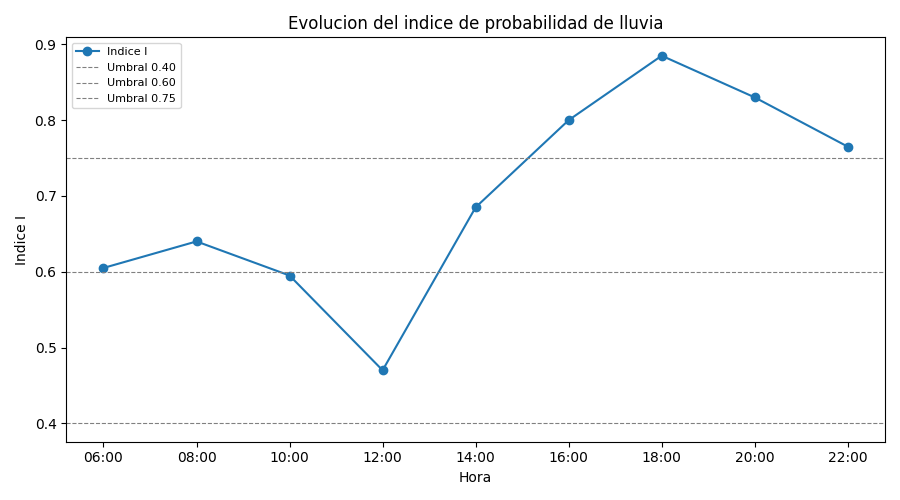
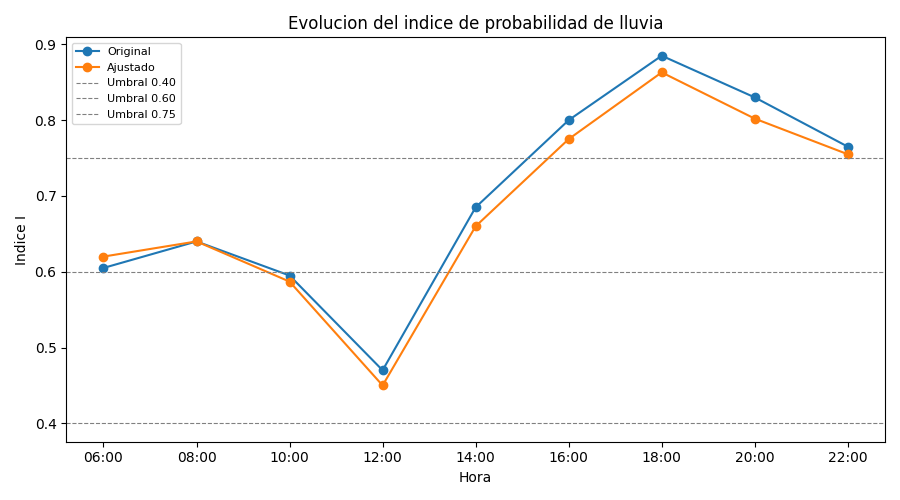
fix(unidad1): modelo ajustado cambia los pesos (sumando 1), no la tabla de Tf

diff --git a/Unidad1/practica01/model.py b/Unidad1/practica01/model.py
@@ -2,11 +2,12 @@
 Modelo (M de MVC): logica matematica pura del indice de probabilidad de lluvia.
 
 Formula entregada en la guia:
-    I = 0.5*H + 0.3*N + 0.2*Tf
+    I = W_H*H + W_N*N + W_TF*Tf
 
 donde H = humedad normalizada, N = nubosidad normalizada y Tf = factor de
-temperatura (obtenido de la tabla de referencia de la guia). Este modulo no
-sabe nada de consola ni de graficas: solo calcula.
+temperatura (obtenido de la tabla de referencia de la guia), y W_H+W_N+W_TF
+siempre suma 1 (es un promedio ponderado). Este modulo no sabe nada de
+consola ni de graficas: solo calcula.
 """
 
 # Tabla de factor de temperatura entregada por la guia de la practica.
@@ -24,8 +25,13 @@ TEMPERATURE_TABLE = [
     (28, 0.10),
 ]
 
-# Pesos fijos de la formula I = W_H*H + W_N*N + W_TF*Tf (dados por la guia).
-W_H, W_N, W_TF = 0.5, 0.3, 0.2
+# Modelo ORIGINAL: pesos (W_H, W_N, W_TF) tal cual los da la guia. Suman 1.
+WEIGHTS_ORIGINAL = (0.5, 0.3, 0.2)
+
+# Modelo AJUSTADO: misma formula y mismas variables (H, N, Tf), pero con
+# otra combinacion de pesos que tambien suma 1. Le da mas peso a la
+# temperatura para ver como cambia el indice frente al modelo original.
+WEIGHTS_ADJUSTED = (0.4, 0.3, 0.3)
 
 
 def normalize(value):
@@ -38,7 +44,8 @@ def temperature_factor(temp):
     Busca Tf en TEMPERATURE_TABLE siguiendo la 'tabla de reglas' de la guia
     (<=10C -> 1.00, >=28C -> 0.10). Para una temperatura que no esta en la
     tabla (ej. 17C), se toma el siguiente escalon igual o mayor, que es como
-    esta redactada la tabla de reglas original.
+    esta redactada la tabla de reglas original. Es la misma tabla para
+    cualquier set de pesos: lo unico que cambia entre modelos es W_H/W_N/W_TF.
     """
     if temp <= TEMPERATURE_TABLE[0][0]:
         return TEMPERATURE_TABLE[0][1]
@@ -50,15 +57,17 @@ def temperature_factor(temp):
     return TEMPERATURE_TABLE[-1][1]
 
 
-def compute_index(humidity, cloudiness, temp):
+def compute_index(humidity, cloudiness, temp, weights):
     """
-    Aplica la formula del indice para una hora puntual.
+    Aplica la formula del indice para una hora puntual con el set de pesos
+    que se le pase (WEIGHTS_ORIGINAL o WEIGHTS_ADJUSTED).
     Devuelve los 4 valores (H, N, Tf, Indice) para poder mostrarlos despues.
     """
+    w_h, w_n, w_tf = weights
     h = normalize(humidity)
     n = normalize(cloudiness)
     tf = temperature_factor(temp)
-    index = W_H * h + W_N * n + W_TF * tf
+    index = w_h * h + w_n * n + w_tf * tf
     return h, n, tf, index
 
 
@@ -77,7 +86,8 @@ class HourRecord:
     """
     Representa una fila de la tabla de la practica (una hora del dia).
     Guarda los datos crudos (humedad, nubosidad, temp) y, luego de llamar
-    a process(), tambien los resultados calculados (H, N, Tf, indice, estado).
+    a process(), tambien los resultados calculados (H, N, Tf, indice, estado)
+    para el set de pesos con el que se proceso.
     """
 
     def __init__(self, hour, humidity, cloudiness, temp):
@@ -87,10 +97,10 @@ class HourRecord:
         self.temp = temp
         self.h = self.n = self.tf = self.index = self.state = None
 
-    def process(self):
-        """Calcula H, N, Tf, indice y estado para esta hora y los guarda en el objeto."""
+    def process(self, weights):
+        """Calcula H, N, Tf, indice y estado para esta hora, usando el set de pesos dado."""
         self.h, self.n, self.tf, self.index = compute_index(
-            self.humidity, self.cloudiness, self.temp
+            self.humidity, self.cloudiness, self.temp, weights
         )
         self.state = classify_state(self.index)
         return self

diff --git a/Unidad1/practica01/main.py b/Unidad1/practica01/main.py
@@ -3,20 +3,29 @@ Punto de entrada: orquesta todo el patron MVC.
 
 Flujo:
 1. El Controller toma los datos crudos (BASE_DATA) y le pide al modelo que
-   calcule H, N, Tf, indice y estado para cada hora.
-2. La View muestra la tabla de resultados en consola y genera las graficas en PNG.
+   calcule H, N, Tf, indice y estado para cada hora, dos veces: con los
+   pesos originales de la guia y con los pesos ajustados (misma formula,
+   mismas variables, otros pesos que tambien suman 1).
+2. La View muestra ambas tablas en consola y genera las graficas en PNG.
 """
+from model import WEIGHTS_ORIGINAL, WEIGHTS_ADJUSTED
 from controller import RainSimulationController, BASE_DATA
 from view import ConsoleView, ChartView
 
 
 def main():
     controller = RainSimulationController(BASE_DATA)
-    records = controller.run()
 
-    ConsoleView.show_table("Indice de probabilidad de lluvia por hora", records)
+    original_records = controller.run(WEIGHTS_ORIGINAL)
+    adjusted_records = controller.run(WEIGHTS_ADJUSTED)
 
-    ChartView.plot_index(records, "indice_lluvia.png")
+    ConsoleView.show_table("Modelo original (pesos 0.5 / 0.3 / 0.2)", original_records)
+    ConsoleView.show_table("Modelo ajustado (pesos 0.4 / 0.3 / 0.3)", adjusted_records)
+
+    ChartView.plot_index(
+        {"Original": original_records, "Ajustado": adjusted_records},
+        "indice_lluvia.png",
+    )
     ChartView.plot_temperature_factor("factor_temperatura.png")
 
 

diff --git a/Unidad1/practica01/view.py b/Unidad1/practica01/view.py
@@ -28,13 +28,17 @@ class ChartView:
     """Genera las graficas que pide la guia (punto 6)."""
 
     @staticmethod
-    def plot_index(records, output_file):
-        """Grafica la evolucion del indice I a lo largo del dia, con los umbrales de la tabla de reglas."""
-        hours = [r.hour for r in records]
-        indices = [r.index for r in records]
-
+    def plot_index(records_by_label, output_file):
+        """
+        Grafica la evolucion del indice I a lo largo del dia, comparando el
+        modelo original contra el ajustado (mismos H/N/Tf, distintos pesos),
+        con los umbrales de la tabla de reglas de referencia.
+        """
         plt.figure(figsize=(9, 5))
-        plt.plot(hours, indices, marker="o", color="tab:blue", label="Indice I")
+        for label, records in records_by_label.items():
+            hours = [r.hour for r in records]
+            indices = [r.index for r in records]
+            plt.plot(hours, indices, marker="o", label=label)
         plt.axhline(0.40, linestyle="--", linewidth=0.8, color="gray", label="Umbral 0.40")
         plt.axhline(0.60, linestyle="--", linewidth=0.8, color="gray", label="Umbral 0.60")
         plt.axhline(0.75, linestyle="--", linewidth=0.8, color="gray", label="Umbral 0.75")

diff --git a/Unidad1/practica01/controller.py b/Unidad1/practica01/controller.py
@@ -25,6 +25,6 @@ class RainSimulationController:
     def __init__(self, data):
         self.data = data
 
-    def run(self):
-        """Crea un HourRecord por cada fila de BASE_DATA y lo procesa."""
-        return [HourRecord(*row).process() for row in self.data]
+    def run(self, weights):
+        """Crea un HourRecord por cada fila de BASE_DATA y lo procesa con el set de pesos dado."""
+        return [HourRecord(*row).process(weights) for row in self.data]

diff --git a/Unidad1/practica01/README.md b/Unidad1/practica01/README.md
@@ -5,12 +5,13 @@
 ## El modelo
 
 ```
-I = 0.5*H + 0.3*N + 0.2*Tf
+I = W_H*H + W_N*N + W_TF*Tf
 ```
 
 - `H` = humedad normalizada (0–1)
 - `N` = nubosidad normalizada (0–1)
 - `Tf` = factor de temperatura, tomado de la tabla de la guía
+- `W_H, W_N, W_TF` = pesos de cada variable. Siempre suman **1**, porque `I` es un promedio ponderado.
 
 | Índice I | Estado |
 |---|---|
@@ -21,14 +22,25 @@ I = 0.5*H + 0.3*N + 0.2*Tf
 
 Para temperaturas que no están exactamente en la tabla de `Tf` (ej. 15 °C, 17 °C), se usa el siguiente escalón igual o mayor, siguiendo la misma lógica de "tabla de reglas" con la que está redactada la tabla original (`≤10°C`, `≥28°C`).
 
+## Modelo original vs. modelo ajustado
+
+La guía pide ajustar el modelo y volver a llenar la tabla. El ajuste **no** cambia la fórmula ni las variables (siguen siendo H, N, Tf con la misma tabla de temperatura): cambia únicamente los **pesos**, manteniendo que sumen 1.
+
+| | W_H | W_N | W_TF | Suma |
+|---|---|---|---|---|
+| Original (de la guía) | 0.5 | 0.3 | 0.2 | 1.0 |
+| Ajustado | 0.4 | 0.3 | 0.3 | 1.0 |
+
+El modelo ajustado le da más peso a la temperatura (`Tf`) y menos a la humedad, para observar cómo responde el índice ante esa redistribución.
+
 ## Arquitectura (MVC)
 
 | Archivo | Rol |
 |---|---|
-| `model.py` | Fórmula del índice, tabla de temperatura y clasificación de estado. Sin I/O. |
-| `controller.py` | Datos de entrada (la tabla de la guía) y orquestación: le pide al modelo que procese cada hora. |
-| `view.py` | Tabla por consola y gráficas (`matplotlib`). |
-| `main.py` | Arma el flujo: controller → model → view. |
+| `model.py` | Fórmula del índice (con los dos sets de pesos), tabla de temperatura y clasificación de estado. Sin I/O. |
+| `controller.py` | Datos de entrada (la tabla de la guía) y orquestación: le pide al modelo que procese cada hora con un set de pesos dado. |
+| `view.py` | Tablas por consola y gráficas (`matplotlib`). |
+| `main.py` | Arma el flujo: controller → model → view, para el modelo original y el ajustado. |
 
 ## Cómo correr
 
@@ -37,9 +49,11 @@ pip install -r ../../requirements.txt
 python3 main.py
 ```
 
-Genera `indice_lluvia.png` (evolución del índice durante el día) y `factor_temperatura.png` (influencia de la temperatura en Tf).
+Genera `indice_lluvia.png` (índice original vs. ajustado durante el día) y `factor_temperatura.png` (influencia de la temperatura en Tf).
 
 ## Resultados
+
+**Modelo original (pesos 0.5 / 0.3 / 0.2):**
 
 | Hora | Humedad | Nubosidad | Temp | H | N | Tf | Índice | Estado |
 |---|---|---|---|---|---|---|---|---|
@@ -53,12 +67,28 @@ Genera `indice_lluvia.png` (evolución del índice durante el día) y `factor_te
 | 20:00 | 88 | 90 | 17 | 0.88 | 0.90 | 0.60 | 0.83 | Lluvia |
 | 22:00 | 80 | 75 | 15 | 0.80 | 0.75 | 0.70 | 0.77 | Lluvia |
 
+**Modelo ajustado (pesos 0.4 / 0.3 / 0.3):**
+
+| Hora | Humedad | Nubosidad | Temp | H | N | Tf | Índice | Estado |
+|---|---|---|---|---|---|---|---|---|
+| 06:00 | 65 | 40 | 14 | 0.65 | 0.40 | 0.80 | 0.62 | Lluvia probable |
+| 08:00 | 70 | 50 | 16 | 0.70 | 0.50 | 0.70 | 0.64 | Lluvia probable |
+| 10:00 | 68 | 45 | 18 | 0.68 | 0.45 | 0.60 | 0.59 | Baja posibilidad |
+| 12:00 | 60 | 30 | 22 | 0.60 | 0.30 | 0.40 | 0.45 | Baja posibilidad |
+| 14:00 | 75 | 70 | 20 | 0.75 | 0.70 | 0.50 | 0.66 | Lluvia probable |
+| 16:00 | 85 | 85 | 18 | 0.85 | 0.85 | 0.60 | 0.77 | Lluvia |
+| 18:00 | 92 | 95 | 16 | 0.92 | 0.95 | 0.70 | 0.86 | Lluvia |
+| 20:00 | 88 | 90 | 17 | 0.88 | 0.90 | 0.60 | 0.80 | Lluvia |
+| 22:00 | 80 | 75 | 15 | 0.80 | 0.75 | 0.70 | 0.76 | Lluvia |
+
+Con menos peso en la humedad y más en la temperatura, el índice baja un poco en casi todas las horas (ej. 16:00 pasa de 0.80 a 0.77), aunque el estado final cambia poco porque los datos de este día son consistentemente húmedos y nublados.
+
 ## Preguntas de control
 
 > Nota: estas preguntas de la guía corresponden a un modelo de **crecimiento exponencial** (`P(t) = P₀·eʳᵗ`), no al modelo de índice de lluvia de esta práctica. Se responden en términos generales de modelado matemático.
 
 1. **¿Qué es un modelo matemático?** Una representación simplificada de un fenómeno real mediante variables, parámetros y relaciones (ecuaciones) que permite predecir o explicar su comportamiento.
-2. **¿Diferencia entre variable y parámetro?** La variable cambia con cada observación (en esta práctica: H, N, Tf, según la hora). El parámetro es un valor fijo que define el modelo (los pesos 0.5/0.3/0.2, o los umbrales 0.40/0.60/0.75).
+2. **¿Diferencia entre variable y parámetro?** La variable cambia con cada observación (en esta práctica: H, N, Tf, según la hora). El parámetro es un valor fijo que define el modelo (los pesos W_H/W_N/W_TF, o los umbrales 0.40/0.60/0.75).
 3. **¿Qué representa P₀?** Es la condición inicial de un modelo de crecimiento/decrecimiento exponencial. No aplica a este modelo porque no es dinámico ni tiene condición inicial: calcula un índice puntual por hora.
 4. **¿Qué ocurre cuando r < 0?** En un modelo exponencial, produce decrecimiento en vez de crecimiento.
 5. **¿Limitaciones del modelo exponencial?** No tiene techo (crece o decrece sin límite), ignora factores externos que frenan el proceso, y deja de ser realista a largo plazo.
